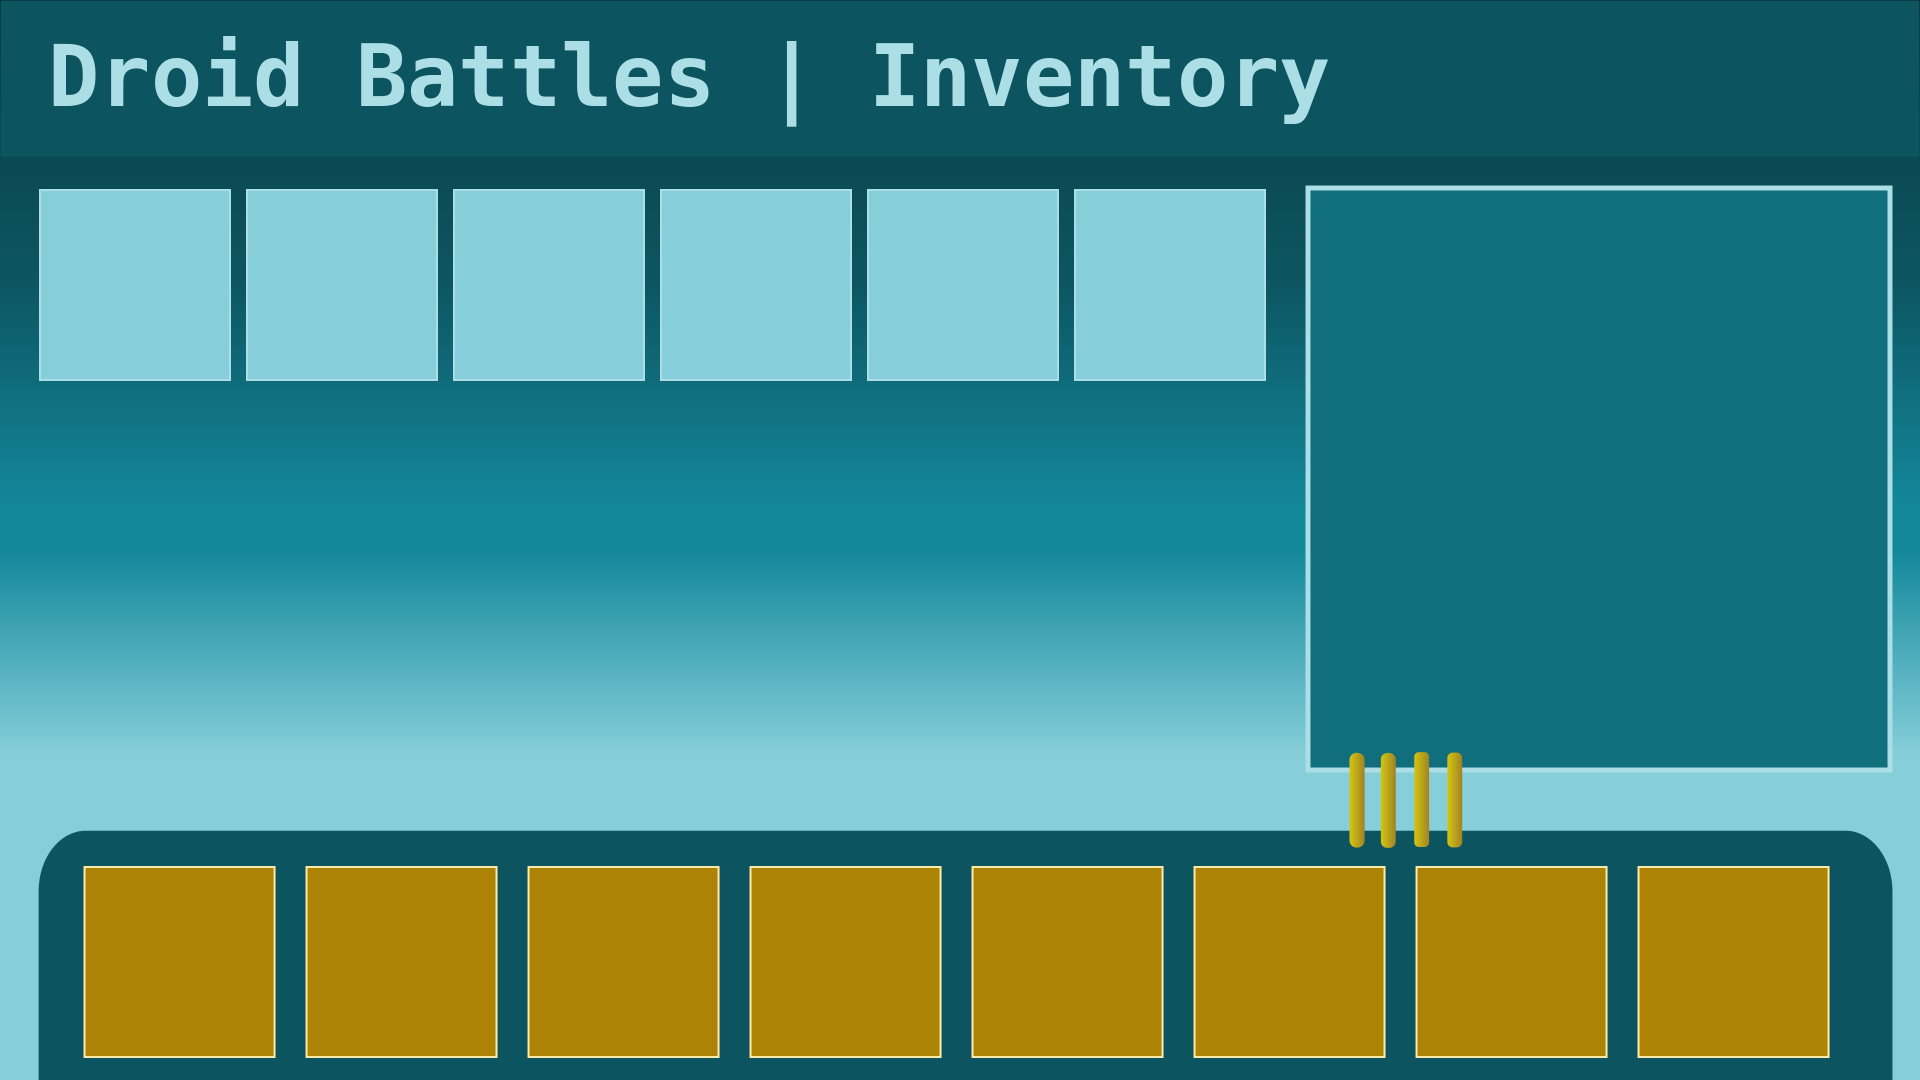
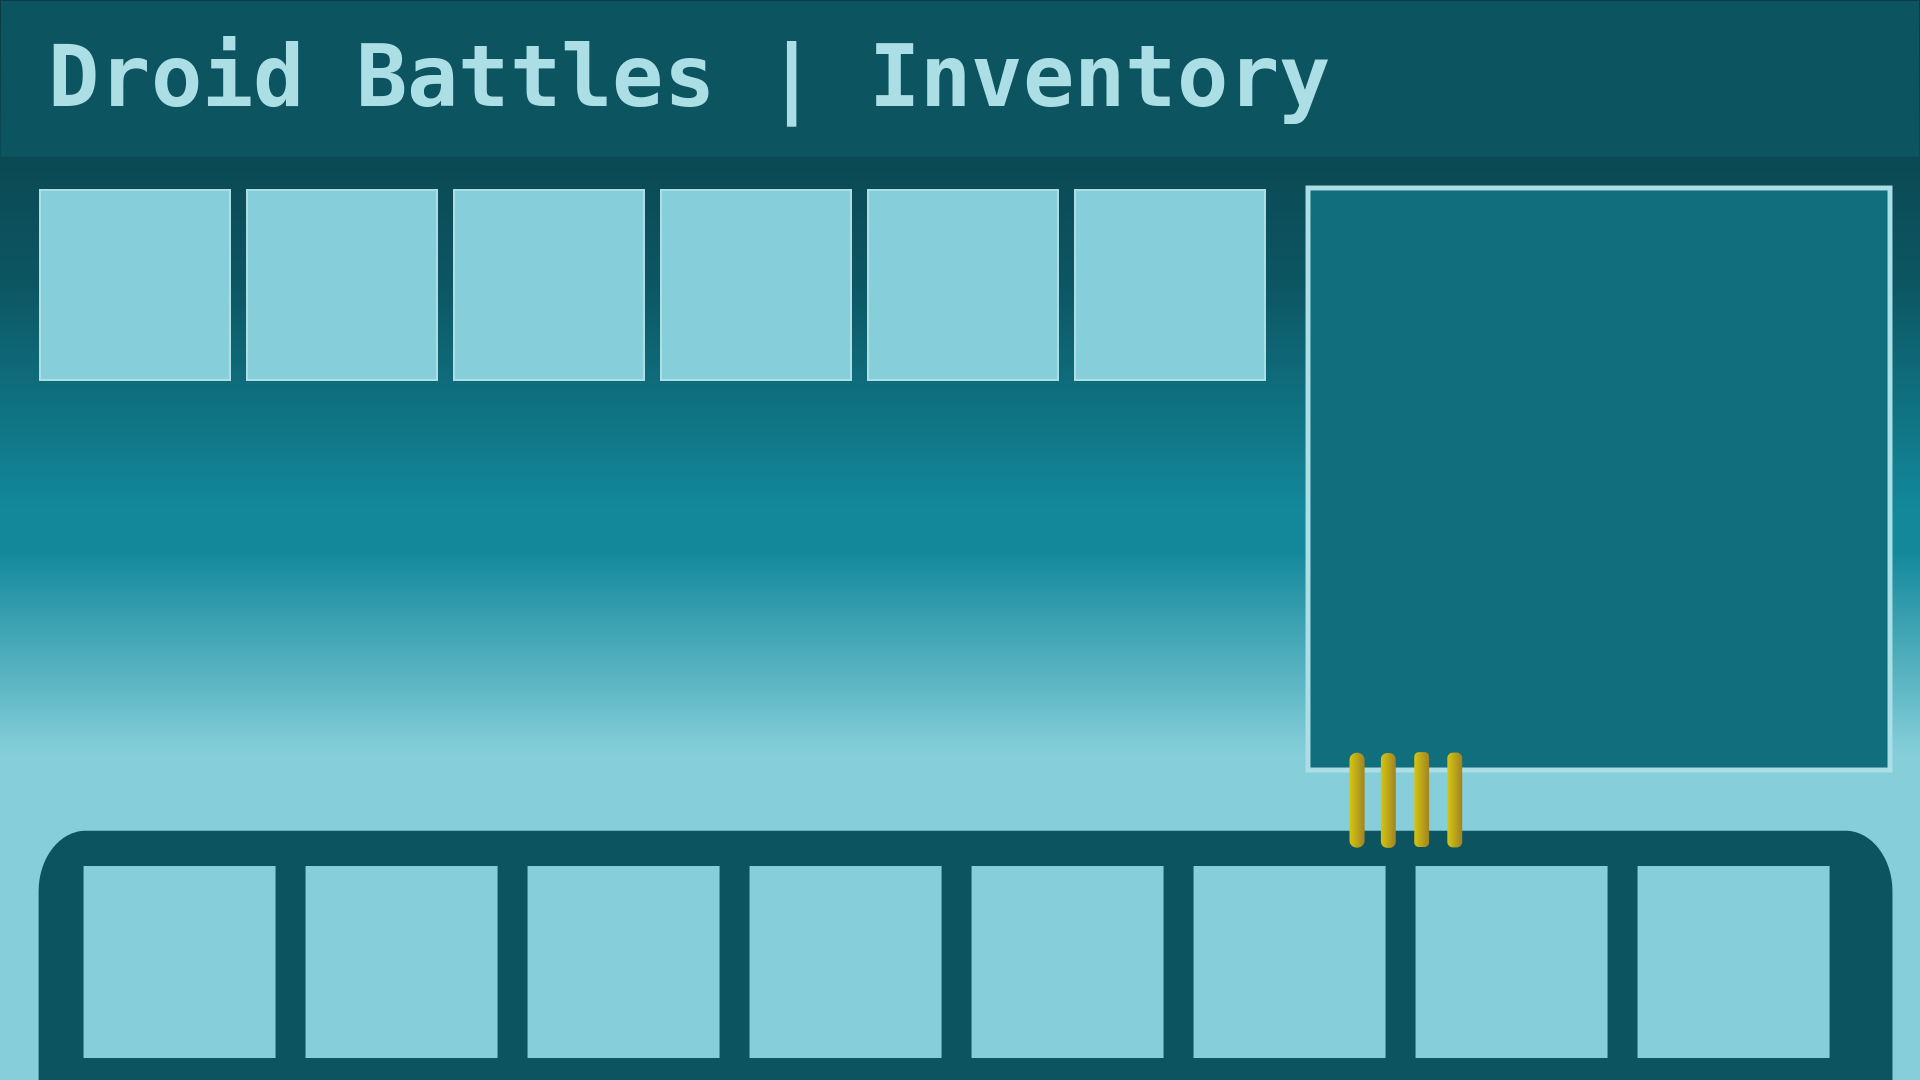
Added chip and chip images to inventory.

Changed region(s): [[0.0312, 0.7944, 0.9688, 0.9778]]

diff --git a/inventory.go b/inventory.go
@@ -6,6 +6,7 @@ import (
 
 	"github.com/google/uuid"
 	"github.com/hajimehoshi/ebiten/v2"
+	"github.com/ronoaldo/ld-50/assets"
 )
 
 func init() {
@@ -19,15 +20,13 @@ type Stats struct {
 }
 
 type Droid struct {
-	Name   string
-	Level  int
-	Sprite *ebiten.Image
-
+	Name      string
+	Level     int
 	BaseStats Stats
+	Chips     [6]Chip
 
-	Chips [6]Chip
-
-	e *Entity
+	Sprite *ebiten.Image
+	e      *Entity
 }
 
 func (d *Droid) Stats() Stats {
@@ -50,6 +49,9 @@ func (d *Droid) Stats() Stats {
 type Chip struct {
 	ID           uuid.UUID
 	StatModifier Stats
+
+	Sprite *ebiten.Image
+	e      *Entity
 }
 
 func NewChip() *Chip {
@@ -58,6 +60,8 @@ func NewChip() *Chip {
 	c.StatModifier.HP = rand.Intn(11)
 	c.StatModifier.Strengh = rand.Intn(11)
 	c.StatModifier.Speed = rand.Intn(11)
+	// TODO(ronoaldo): randomize chip sprite
+	c.Sprite = assets.ChipSpeed
 	return c
 }
 
@@ -79,4 +83,11 @@ func (i *Inventory) AddDroid(d *Droid) {
 	d.e = NewEntity(d.Name, d.Sprite)
 	d.e.invisible = true
 	i.player.game.entities = append(i.player.game.entities, d.e)
+}
+
+func (i *Inventory) AddChip(c *Chip) {
+	i.chips = append(i.chips, c)
+	c.e = NewEntity(c.ID.String(), c.Sprite)
+	c.e.invisible = true
+	i.player.game.entities = append(i.player.game.entities, c.e)
 }

diff --git a/assets/assets.go b/assets/assets.go
@@ -47,6 +47,18 @@ var BlueL5 *ebiten.Image
 var blueL6_png []byte
 var BlueL6 *ebiten.Image
 
+//go:embed chip-life.png
+var chipLife_png []byte
+var ChipLife *ebiten.Image
+
+//go:embed chip-speed.png
+var chipSpeed_png []byte
+var ChipSpeed *ebiten.Image
+
+//go:embed chip-strength.png
+var chipStrength_png []byte
+var ChipStrength *ebiten.Image
+
 //go:embed BackgroundMusic.mp3
 var backgroundMusic_mp3 []byte
 var BackgroundMusic io.Reader
@@ -78,6 +90,10 @@ func init() {
 	BlueL4 = load(blueL4_png)
 	BlueL5 = load(blueL5_png)
 	BlueL6 = load(blueL6_png)
+
+	ChipLife = load(chipLife_png)
+	ChipStrength = load(chipStrength_png)
+	ChipSpeed = load(chipSpeed_png)
 
 	BackgroundMusic = loadMP3(backgroundMusic_mp3)
 }

diff --git a/main.go b/main.go
@@ -119,6 +119,13 @@ func (g *Game) InventoryScreen(screen *ebiten.Image) {
 		droid.e.invisible = false
 		x += 192 + 15 // space width + offset
 	}
+
+	x, y = 83, 866
+	for _, chip := range g.player.inv.chips {
+		chip.e.x, chip.e.y = float64(x), float64(y)
+		chip.e.invisible = false
+		x += 192 + 30 // chip slot width + offset
+	}
 }
 
 func (g *Game) Layout(outsideWidth, outsideHeight int) (screenWidth, screenHeight int) {

diff --git a/player.go b/player.go
@@ -25,5 +25,10 @@ func NewPlayer(g *Game) *Player {
 		Level:  2,
 		Sprite: assets.BlueL2,
 	})
+	p.inv.AddChip(NewChip())
+	p.inv.AddChip(NewChip())
+	p.inv.AddChip(NewChip())
+	p.inv.AddChip(NewChip())
+	p.inv.AddChip(NewChip())
 	return p
 }
